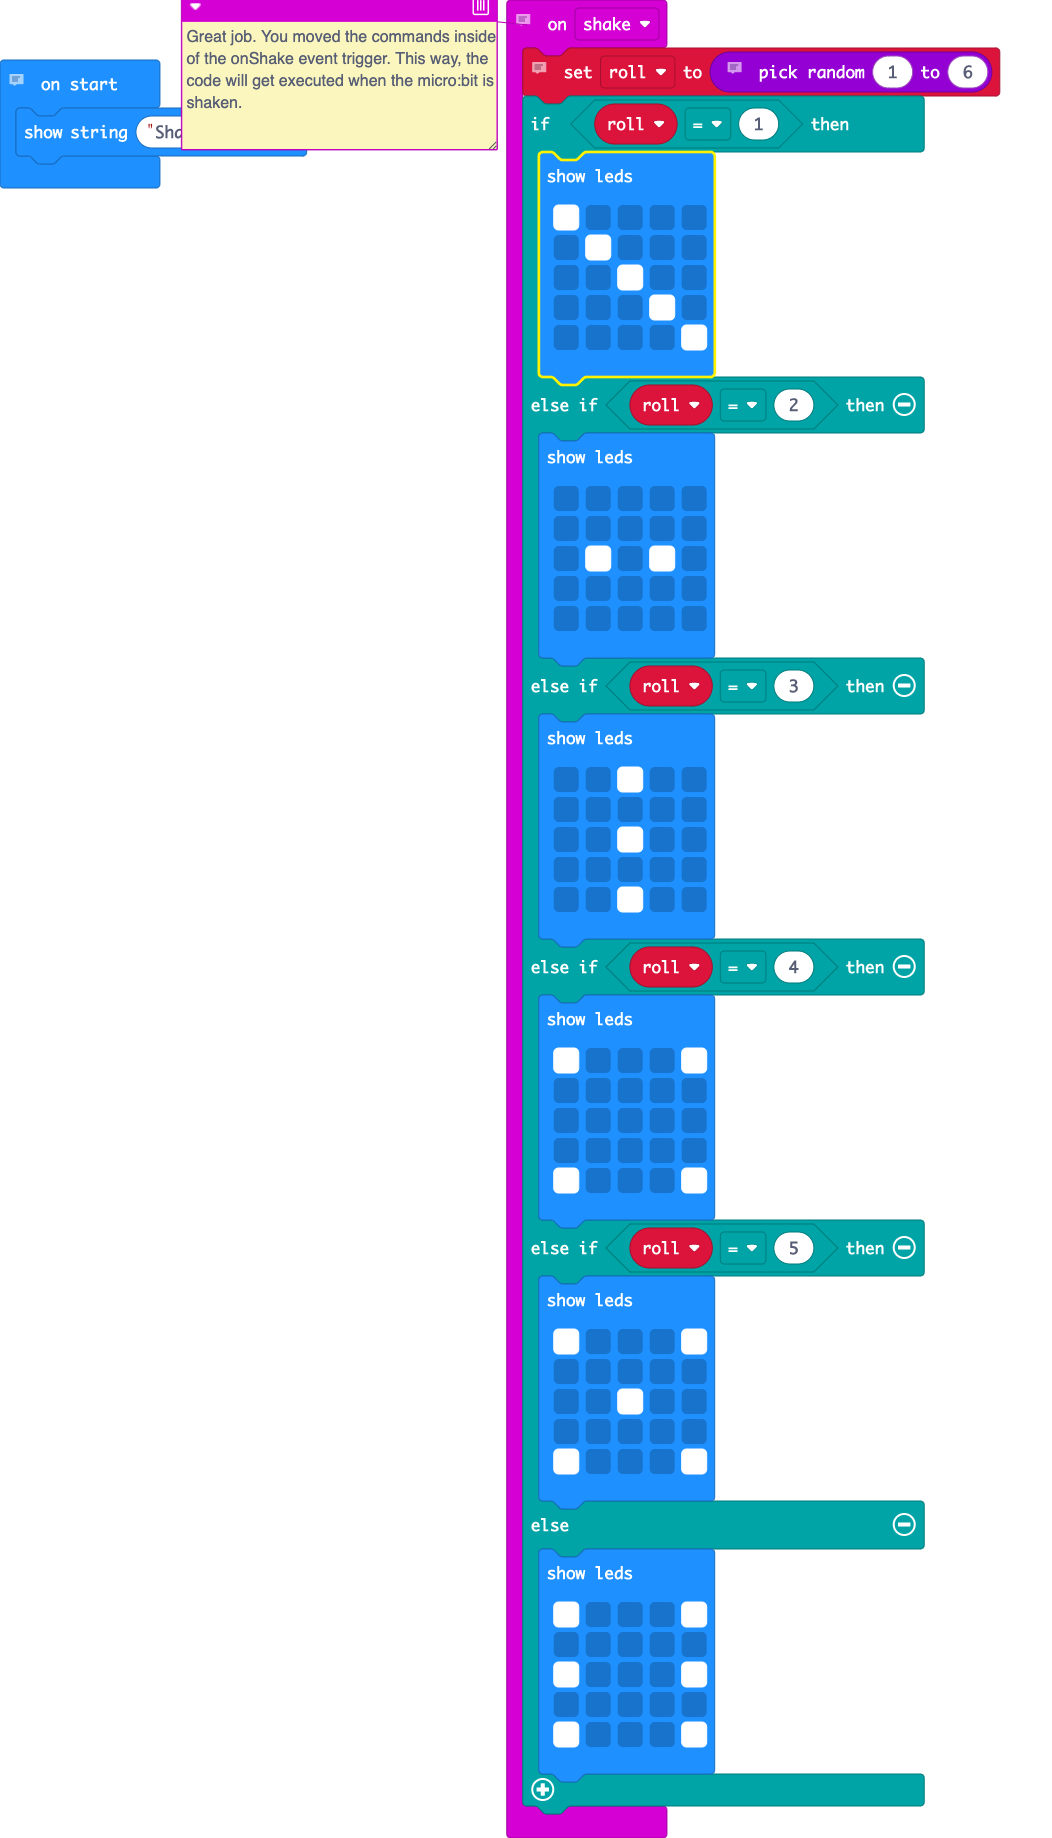
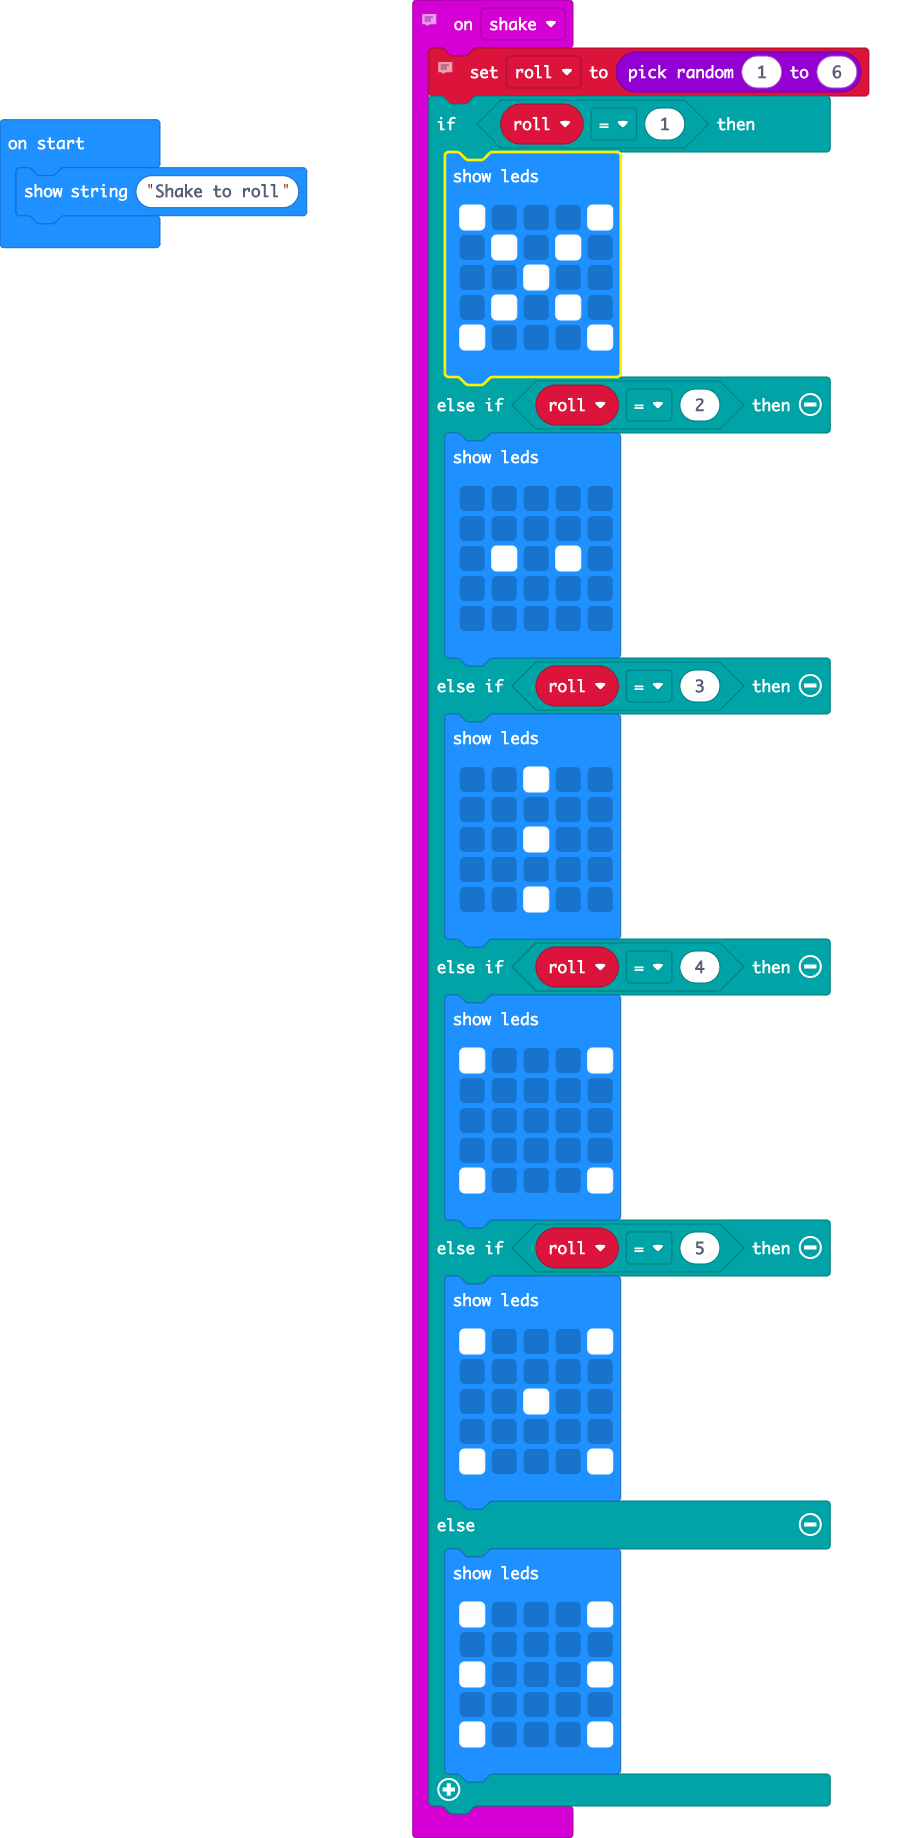
Update main.blocks, main.ts

diff --git a/main.ts b/main.ts
@@ -1,15 +1,15 @@
 // Great job. You moved the commands inside of the onShake event trigger. This way, the code will get executed when the micro:bit is shaken.
 input.onGesture(Gesture.Shake, function () {
     // A variable is a place where your program can store a value. We need a place to store the result of the roll, so I created a variable called roll.
-    //  I have the program generate a random number between 1 and 6, and I assign that value to the roll variable
+    // I have the program generate a random number between 1 and 6, and I assign that value to the roll variable
     roll = randint(1, 6)
     if (roll == 1) {
         basic.showLeds(`
-            # . . . .
-            . # . . .
+            # . . . #
+            . # . # .
             . . # . .
-            . . . # .
-            . . . . #
+            . # . # .
+            # . . . #
             `)
     } else if (roll == 2) {
         basic.showLeds(`
@@ -53,6 +53,5 @@ input.onGesture(Gesture.Shake, function () {
             `)
     }
 })
-// Code added here will run once when the program starts
 let roll = 0
 basic.showString("Shake to roll")
